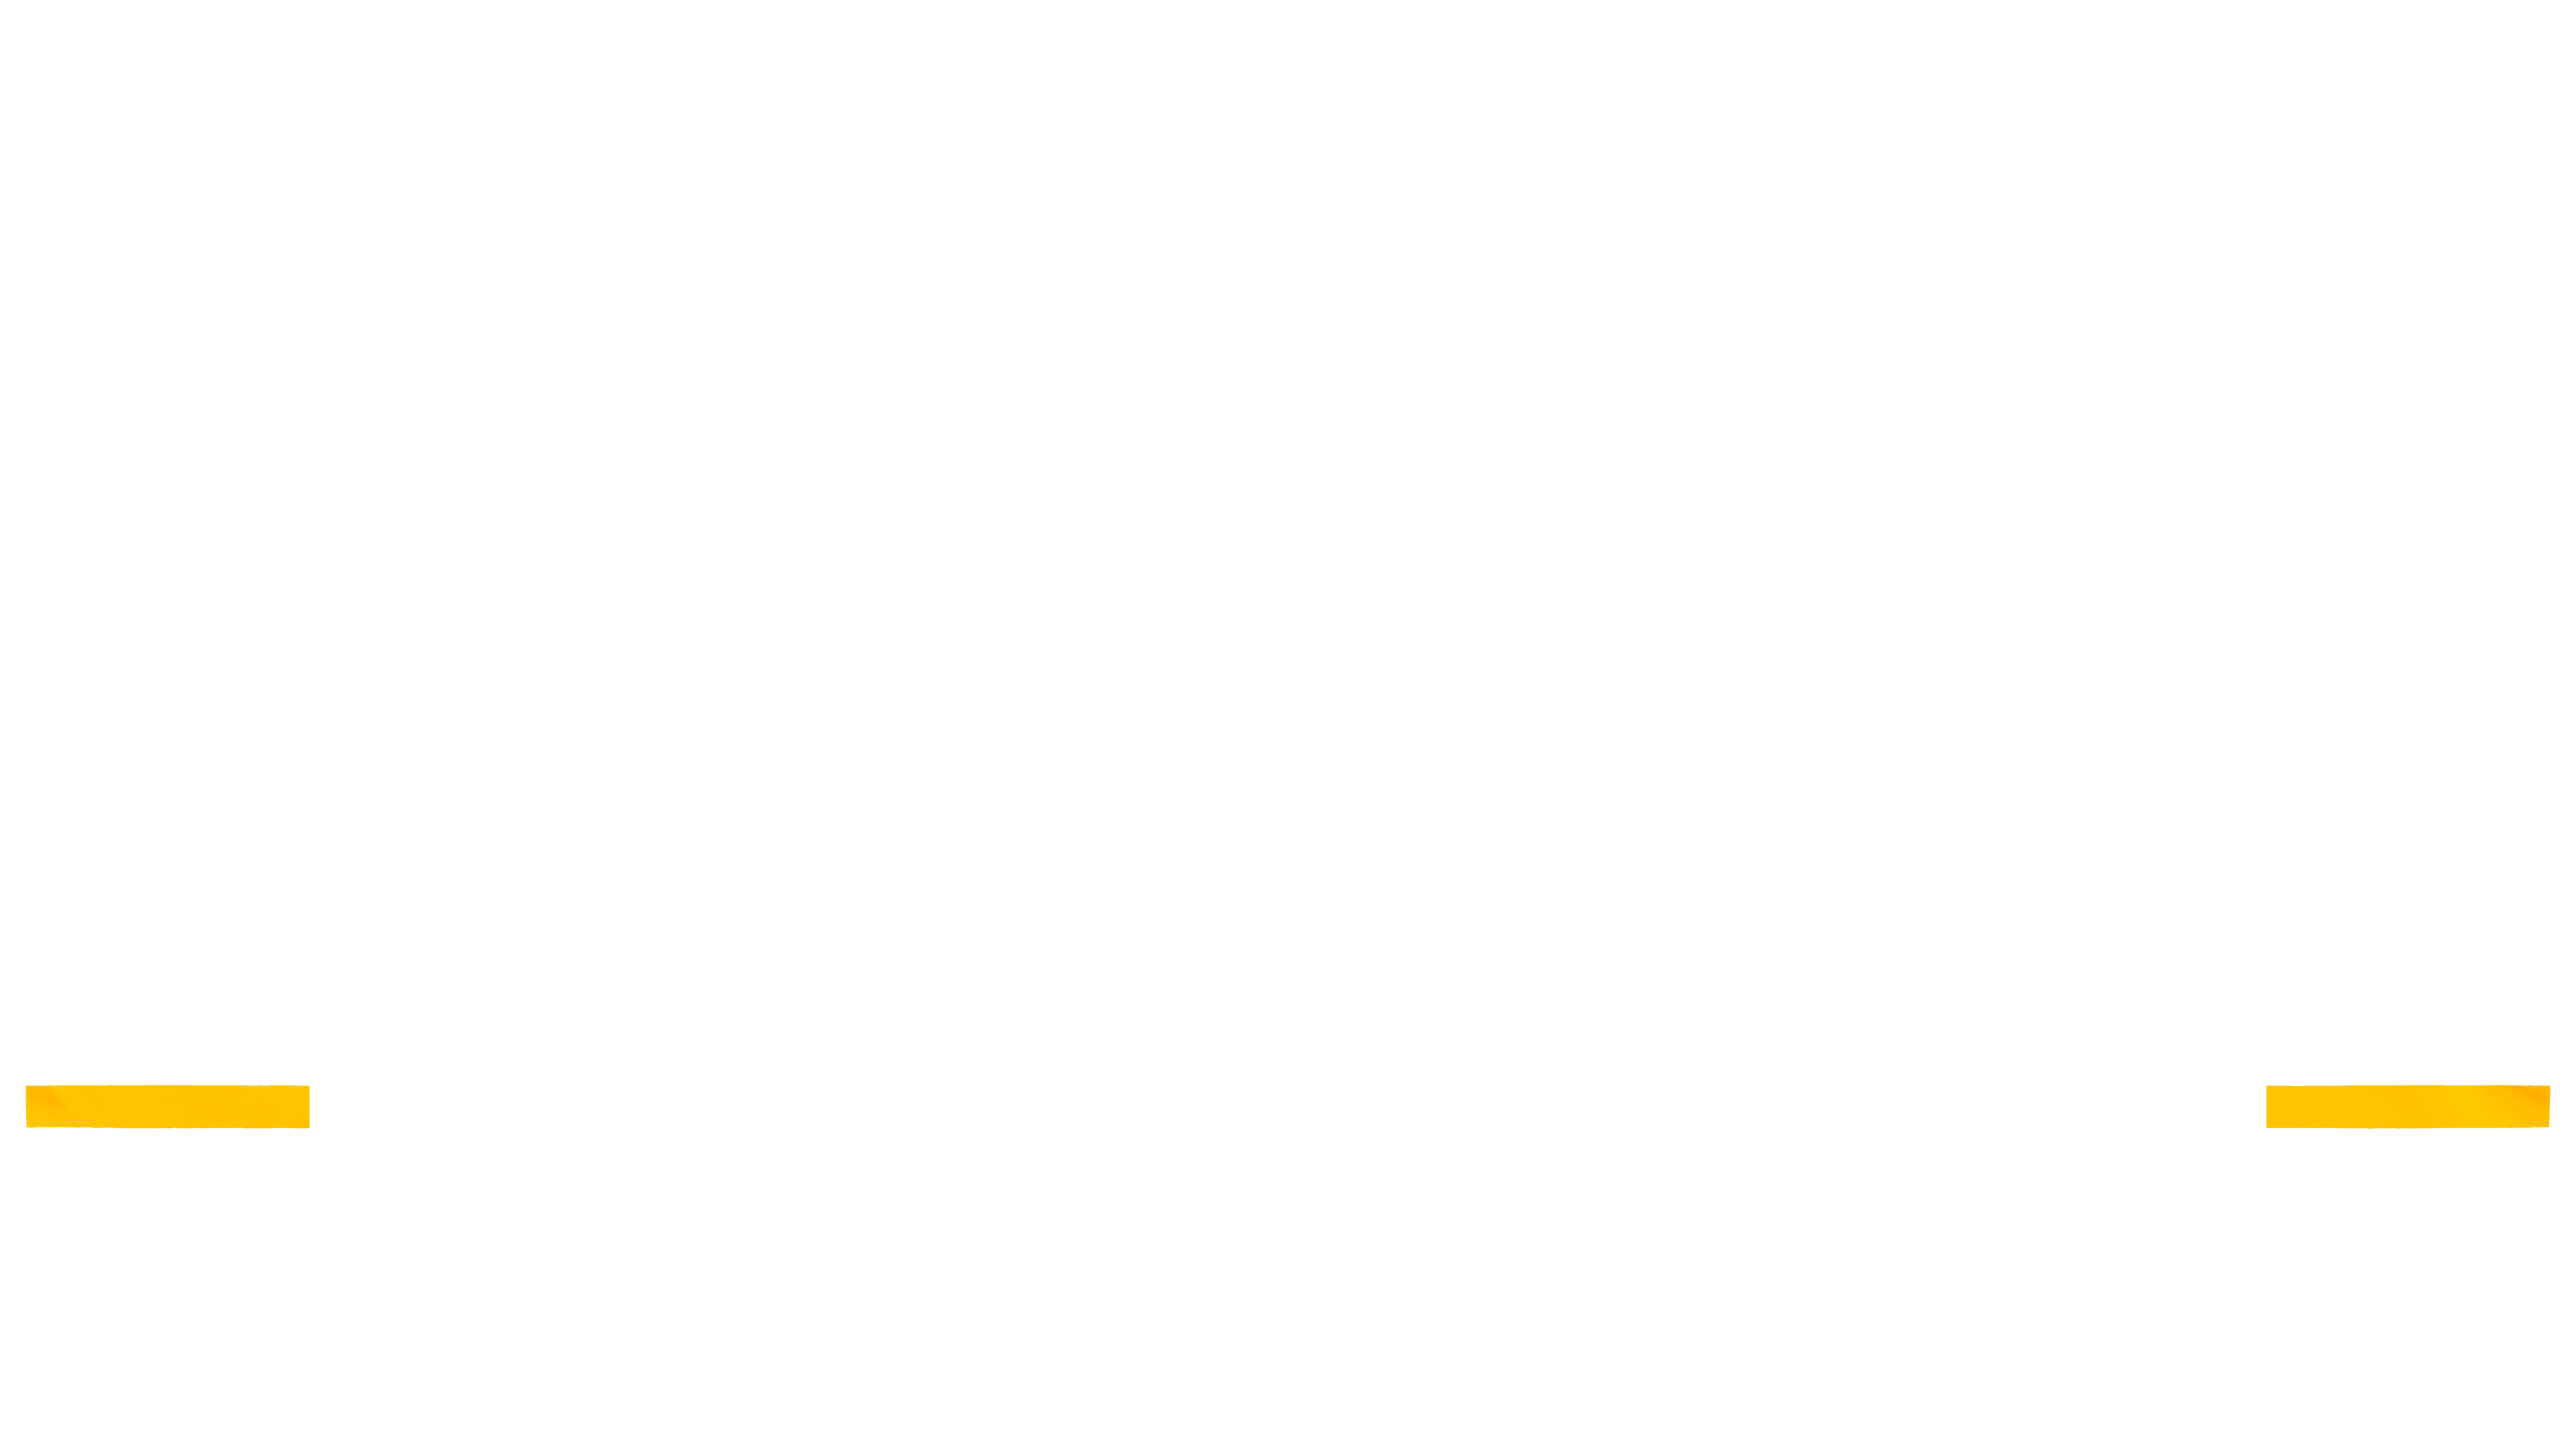
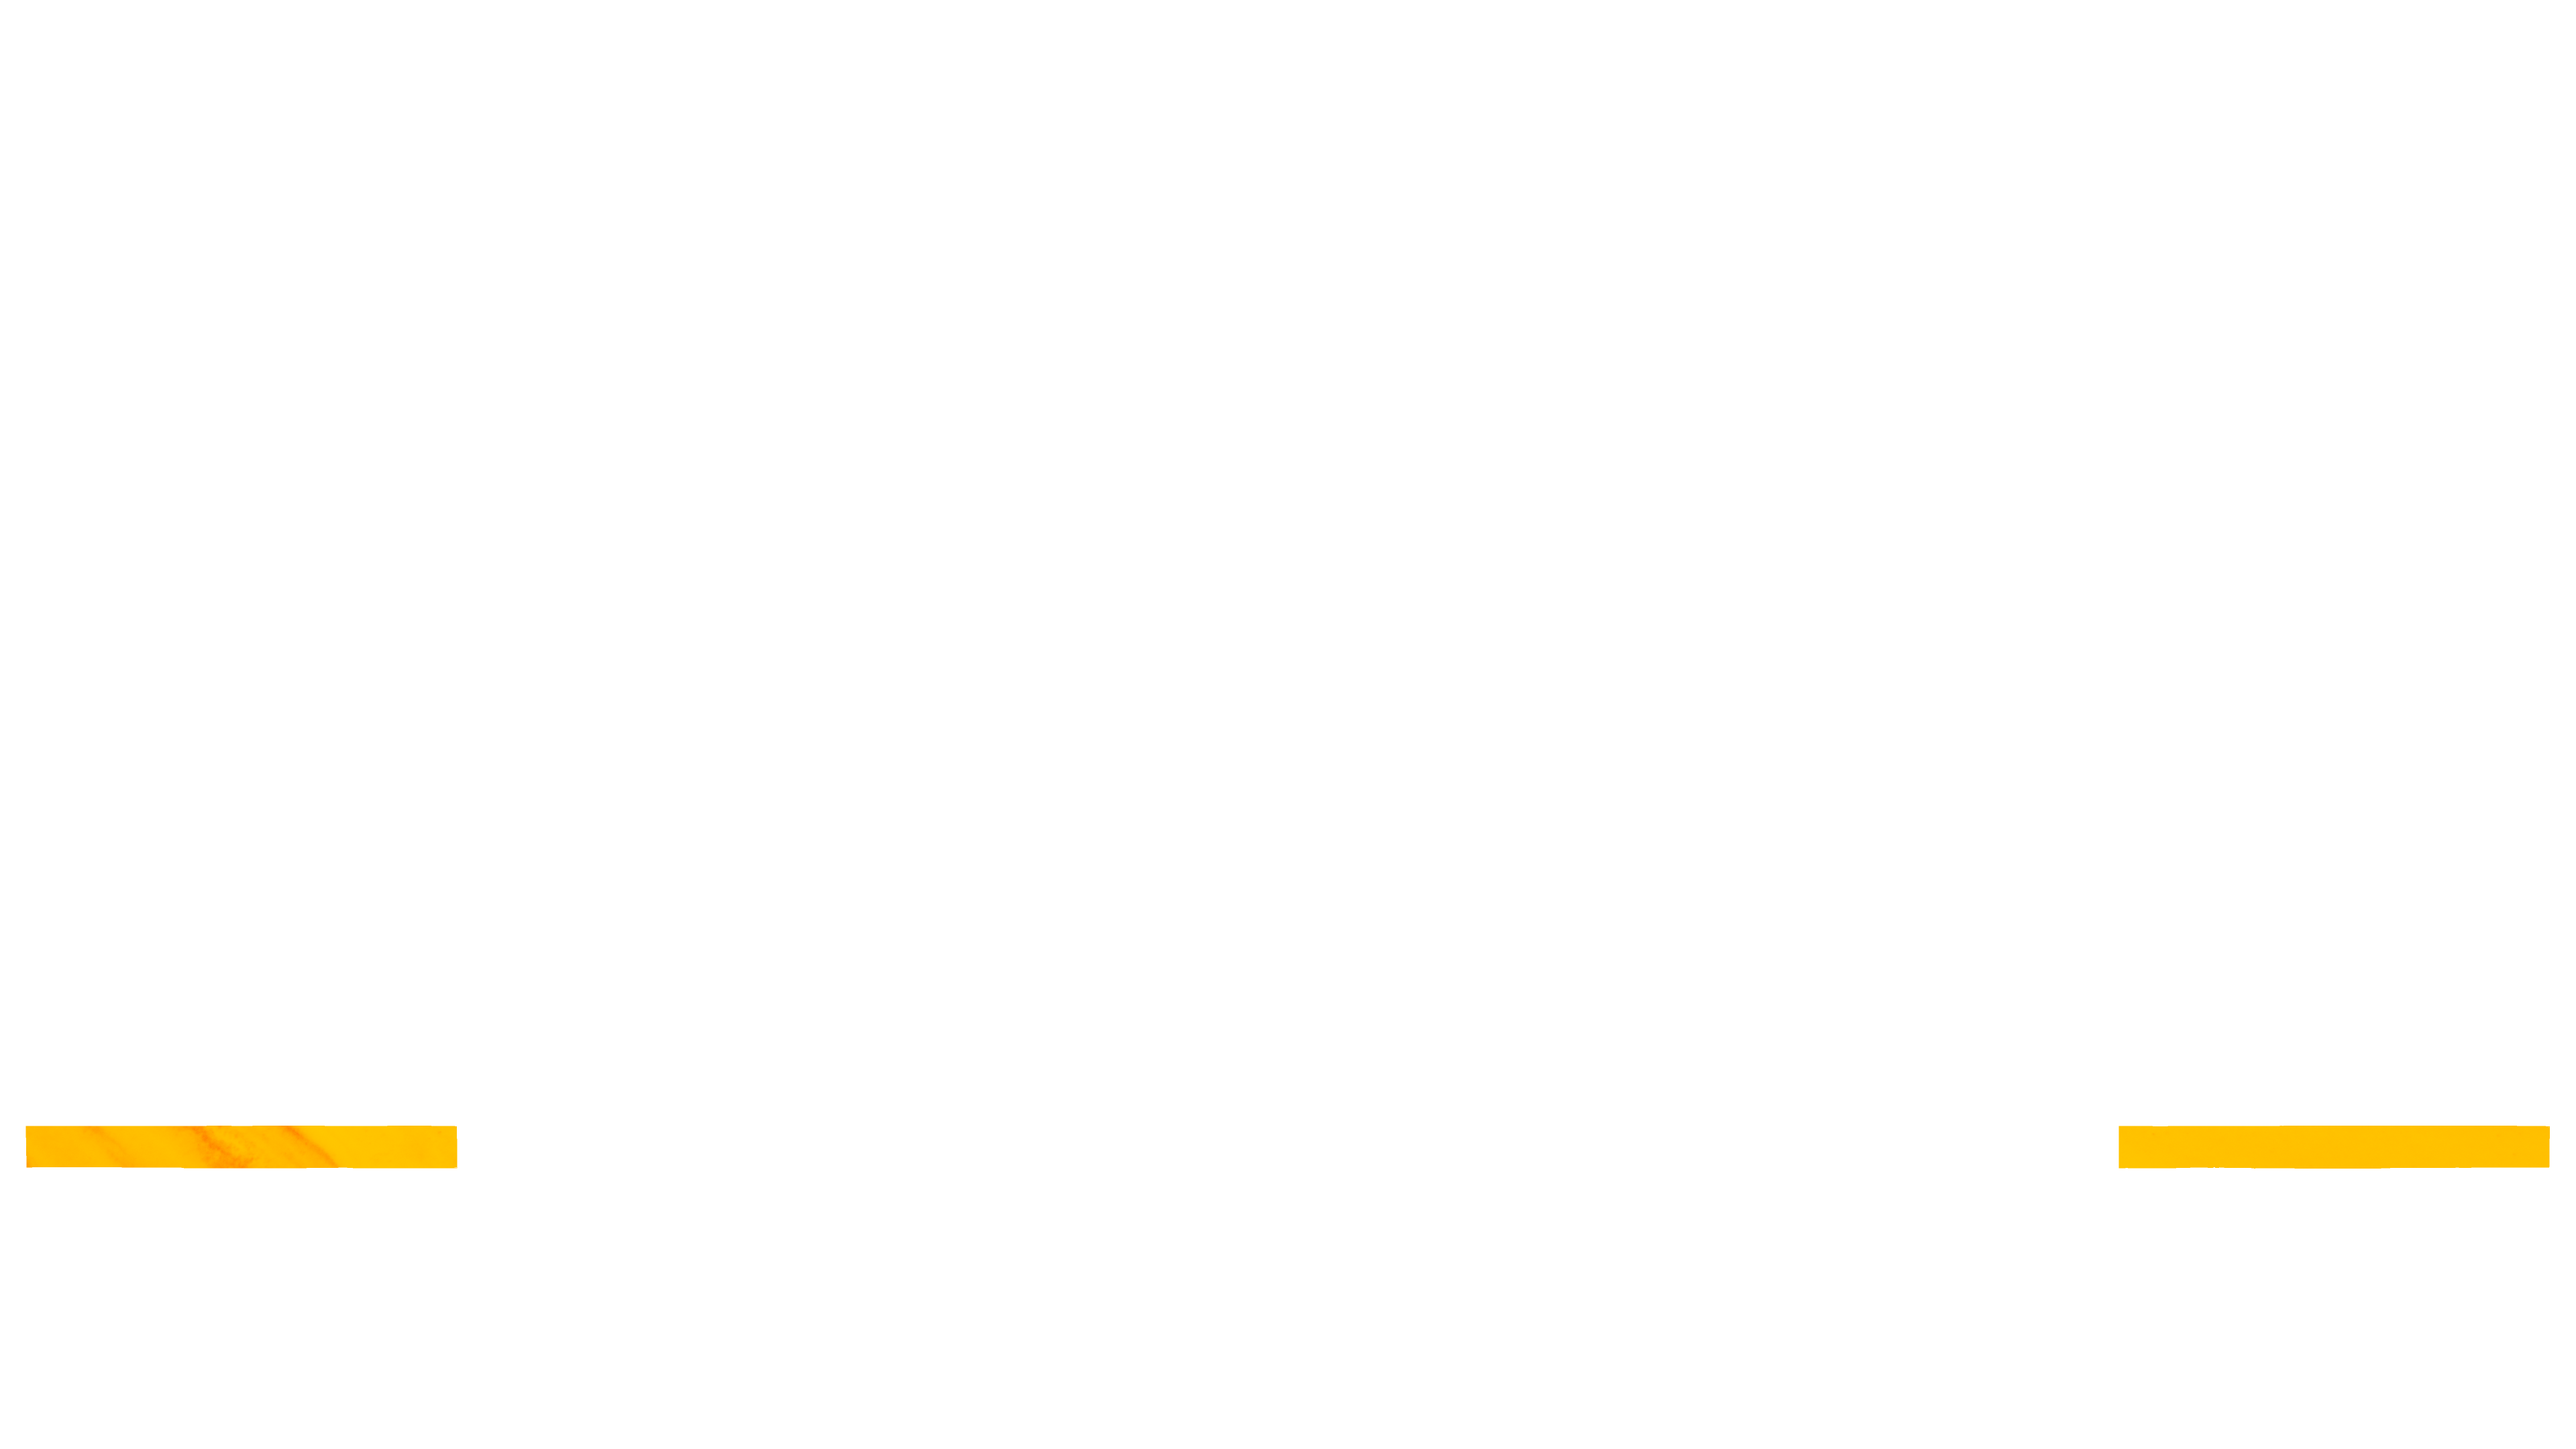
スコアボード更新テスト

Changed region(s): [[0.8125, 0.7444, 1.0, 0.8065], [0.0, 0.7444, 0.1875, 0.8065]]

diff --git a/components/obs/score/Single.scss b/components/obs/score/Single.scss
@@ -1,5 +1,5 @@
 @import "components/obs/score/base";
-@import url("https://fonts.googleapis.com/css2?family=Noto+Serif+JP:wght@500;900&display=swap");
+@import url("https://fonts.googleapis.com/css2?family=Noto+Serif+JP:wght@500;600;700;900&display=swap");
 @font-face {
   font-family: "Nikolai Bold";
   src: url("/fonts/Nikolai-Bold.woff2");
@@ -19,6 +19,10 @@
 @font-face {
   font-family: "Gambetta Bold";
   src: url("/fonts/Gambetta-Bold.woff2");
+}
+@font-face {
+  font-family: "Gambetta Medium";
+  src: url("/fonts/Gambetta-Medium.woff2");
 }
 @font-face {
   font-family: "Gambetta Semi Bold";
@@ -52,11 +56,11 @@
     color: var(--black);
 
     &.p1 {
-      left: 800px;
+      left: 350px;
     }
 
     &.p2 {
-      right: 800px;
+      right: 350px;
     }
   }
 
@@ -64,7 +68,7 @@
   .player {
     position: absolute;
     top: 62px;
-    width: 430px;
+    width: 380px;
     height: 60px;
     text-align: center;
 
@@ -77,19 +81,19 @@
     }
 
     &.p1 {
-      left: 350px;
+      left: 440px;
     }
 
     &.p2 {
-      right: 350px;
+      right: 440px;
     }
 
     .team {
       @include mediumWeight;
 
-      font-family: "Gambetta Regular", "Noto Serif JP", serif;
+      font-family: "Gambetta Semi Bold", "Noto Serif JP", serif;
       font-size: 28px;
-      font-weight: 500;
+      font-weight: 700;
       line-height: 28px;
       color: var(--black);
       text-align: center;
@@ -122,31 +126,35 @@
 
   .box {
     position: absolute;
-    top: 46px;
-    left: 15px;
+    top: 47px;
+    left: 840px;
     display: flex;
     flex-direction: column;
     justify-content: center;
-    width: 215px;
-    height: 60px;
+    width: 240px;
+    height: 50px;
+    line-height: 16px;
   }
 
   // 試合ステータスの位置設定
   .round {
     @include status;
 
-    font-family: "Gambetta Semi Bold", serif;
+    width: 240px;
+    font-family: "Gambetta Bold", serif;
+    font-size: 25px;
+    color: white;
+    text-align: center;
+    letter-spacing: 0.025em;
   }
 
   .matchType {
-    position: absolute;
-    top: 5px;
-    left: 875px;
-    width: 140px;
     font-family: "Gambetta Bold", serif;
-    font-size: 24px;
+    font-size: 18px;
     color: white;
     text-align: center;
+    text-transform: uppercase;
+    letter-spacing: 0.15em;
   }
 
   .cameraRight,

diff --git a/components/obs/score/base.scss b/components/obs/score/base.scss
@@ -60,7 +60,7 @@ $black: "Satoshi", "Noto Sans JP", sans-serif;
   @include boldWeight;
 
   position: absolute;
-  top: 813px;
+  top: 842px;
   width: 210px;
   height: 30px;
   margin: 0;
